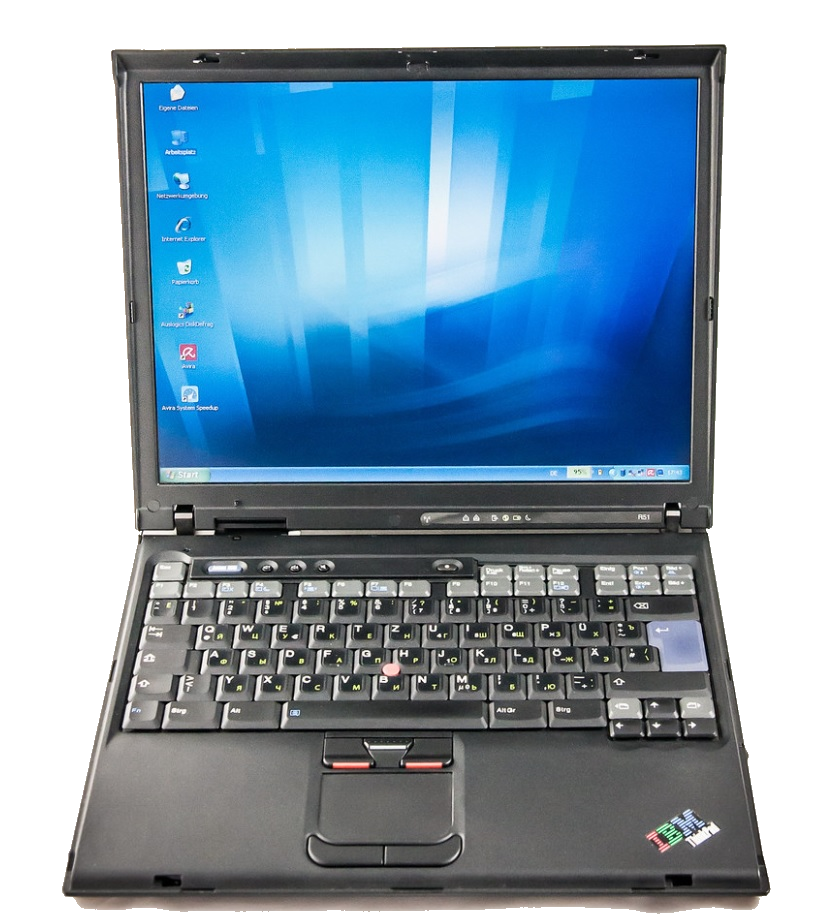
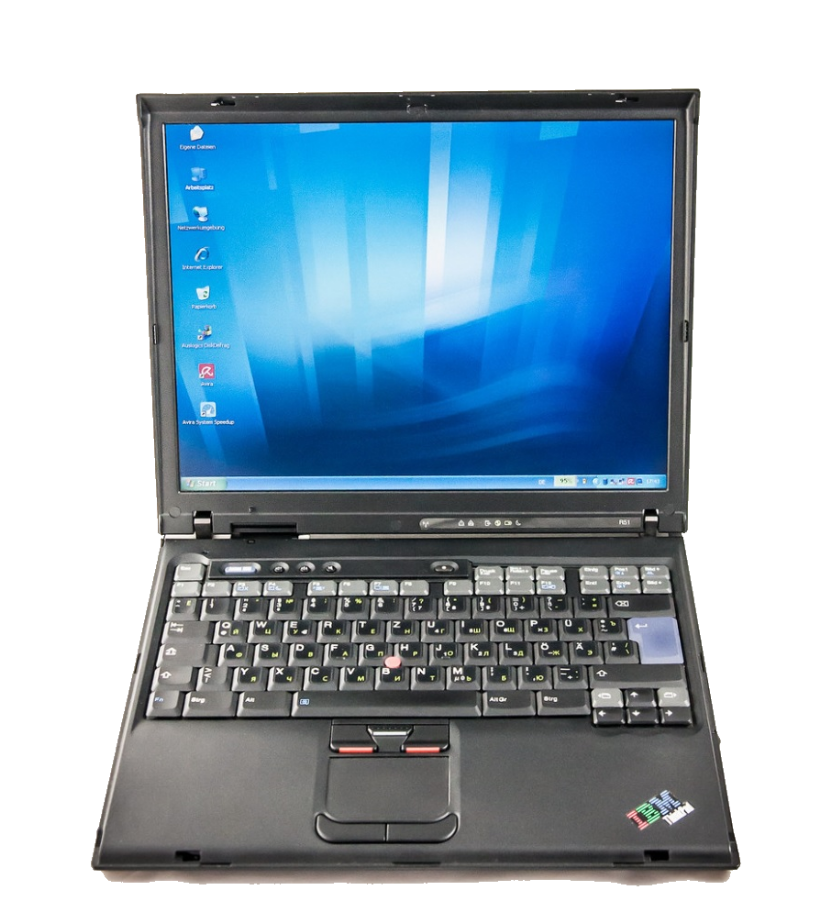
Fixing margins

diff --git a/script.js b/script.js
@@ -212,15 +212,24 @@ function setIcons() {
 function moveContent() {
   console.log("moveContent");
 
-  gsap.to(".computer-btn", {
-    duration: 2,
-    x: settings.moveContent,
-    rotate: 50,
-    delay: 0.5,
-    stagger: 0.2,
+  gsap.fromTo(
+    ".computer-btn",
+    {
+      rotate: -50,
+      duration: 2,
 
-    ease: "elastic"
-  });
+      delay: 0.2,
+      stagger: 0.2,
+      ease: "elastic"
+    },
+    {
+      duration: 2,
+      x: settings.moveContent,
+      delay: 0.2,
+      stagger: 0.2,
+      ease: "elastic"
+    }
+  );
 
   setIdleAni();
 }
@@ -247,6 +256,11 @@ function setIdleAni() {
       stagger: 0.2,
       ease: "elastic"
     });
+    /*     const move = settings.moveContent + 200;
+    gsap.to(".computer", {
+      duration: 2,
+      scale: 1.1
+    }); */
   }
 
   console.log(settings.int);

diff --git a/sass/style.scss b/sass/style.scss
@@ -80,7 +80,8 @@ body {
     @include mixins.flexible();
     @include mixins.defaultBorder(); */
     color: vars.$green-color;
-    margin-left: 10%;
+    /* margin-bottom: 0; */
+    /* margin-left: 10%; */
     transform: translateX(var(--move-content));
   }
 
@@ -173,16 +174,17 @@ body {
 }
 
 .decade_h2 {
-  margin-left: 10%;
+  margin-left: 10vw;
 }
 .lowered {
-  margin-top: 142px;
+  margin-top: 70px;
 }
 
 .computer {
   width: 35%;
-  margin-left: 40%;
+  margin-left: 45%;
   transform: translateX(var(--move-content));
+  margin-top: -100px;
 }
 
 .computer-btn {

diff --git a/index.html b/index.html
@@ -16,7 +16,7 @@
             <h1>Hjemmecomputeren</h1>
           </header>
           <section class="">
-            <h2 class="decade_h2">80'erne</h2>
+            <h2 class="decade_h2 ">80'erne</h2>
             <img class="computer" src="static/images/Ibm_pc_5150_clear.png" alt="IBM PC 5150">
             <div class="themes">
             <button class="computer-btn" id="computer_btn1">
